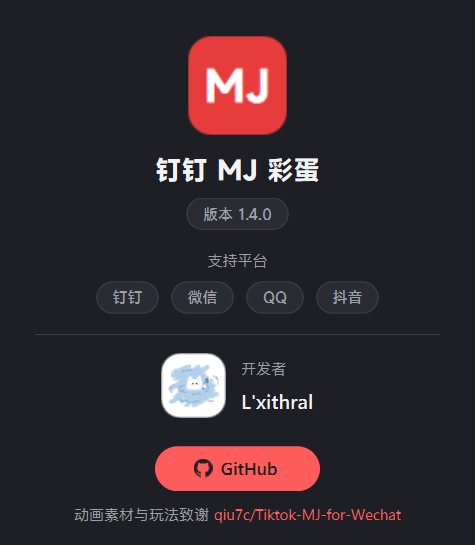
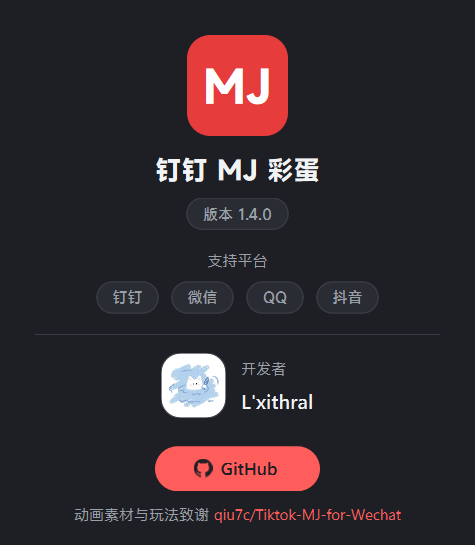
关于窗口位图高清化: MJ 图标与头像按屏幕 DPR 渲染

diff --git a/app/desktop/mjegg/about.py b/app/desktop/mjegg/about.py
@@ -7,11 +7,12 @@
 import os
 
 from PyQt6.QtCore import Qt, QRectF, QUrl
-from PyQt6.QtGui import (QBrush, QColor, QDesktopServices, QFont, QIcon, QPainter,
-                         QPainterPath, QPen, QPixmap)
+from PyQt6.QtGui import (QBrush, QColor, QDesktopServices, QFont, QGuiApplication, QIcon,
+                         QPainter, QPainterPath, QPen, QPixmap)
 from PyQt6.QtWidgets import QDialog, QHBoxLayout, QLabel, QPushButton, QVBoxLayout
 
 from .paths import resource_path
+from .overlay import draw_app_icon_pixmap
 from . import theme
 
 APP_NAME = "钉钉 MJ 彩蛋"
@@ -46,36 +47,44 @@ def github_icon_pixmap(size: int, color: str) -> QPixmap:
 
 
 def avatar_pixmap(source_path: str, size: int, border_color: str,
-                  fallback_letter: str, fallback_bg: str, fallback_fg: str) -> QPixmap:
-    """圆角方形头像(抗锯齿裁剪 + 1px 描边). 图片缺失时退回中性色首字母占位."""
-    pm = QPixmap(size, size)
+                  fallback_letter: str, fallback_bg: str, fallback_fg: str,
+                  dpr: float = 1.0) -> QPixmap:
+    """圆角方形头像(抗锯齿裁剪 + 描边). dpr>1 按物理像素渲染, 高 DPI 下不发虚.
+
+    图片缺失时退回中性色首字母占位.
+    """
+    physical = int(size * dpr)
+    pm = QPixmap(physical, physical)
     pm.fill(Qt.GlobalColor.transparent)
     p = QPainter(pm)
     p.setRenderHint(QPainter.RenderHint.Antialiasing)
     p.setRenderHint(QPainter.RenderHint.SmoothPixmapTransform)
-    radius = size * 0.30
+    radius = physical * 0.30
     path = QPainterPath()
-    path.addRoundedRect(QRectF(0, 0, size, size), radius, radius)
+    path.addRoundedRect(QRectF(0, 0, physical, physical), radius, radius)
     src = QPixmap(source_path) if os.path.exists(source_path) else QPixmap()
     if not src.isNull():
         side = min(src.width(), src.height())
         cropped = src.copy((src.width() - side) // 2, (src.height() - side) // 2, side, side)
         p.setClipPath(path)
-        p.drawPixmap(0, 0, size, size, cropped)
+        p.drawPixmap(0, 0, physical, physical, cropped)
     else:
         p.fillPath(path, QBrush(QColor(fallback_bg)))
         font = QFont()
         font.setBold(True)
-        font.setPixelSize(int(size * 0.48))
+        font.setPixelSize(int(physical * 0.48))
         p.setFont(font)
         p.setPen(QColor(fallback_fg))
-        p.drawText(QRectF(0, 0, size, size), Qt.AlignmentFlag.AlignCenter, fallback_letter)
+        p.drawText(QRectF(0, 0, physical, physical), Qt.AlignmentFlag.AlignCenter,
+                   fallback_letter)
     p.setClipping(False)
     pen = QPen(QColor(border_color))
-    pen.setWidthF(1.0)
+    pen.setWidthF(max(1.0, dpr))
     p.setPen(pen)
     p.drawPath(path)
     p.end()
+    if dpr != 1.0:
+        pm.setDevicePixelRatio(dpr)
     return pm
 
 
@@ -169,10 +178,21 @@ class AboutDialog(QDialog):
 
         self.apply_theme()
 
+    def _screen_dpr(self) -> float:
+        """当前所在屏幕的 devicePixelRatio(未显示时退回主屏), 位图按它渲染才不虚."""
+        screen = self.screen() or QGuiApplication.primaryScreen()
+        return screen.devicePixelRatio() if screen else 1.0
+
+    def showEvent(self, ev):
+        # 弹出时按实际所在屏幕重渲染位图(多屏 DPR 不同/首帧前 DPR 未定)
+        super().showEvent(ev)
+        self.apply_theme()
+
     def apply_theme(self):
         c = theme.palette_dict()
+        dpr = self._screen_dpr()
         self.setStyleSheet(f"QDialog {{ background: {c['window_bg']}; }}")
-        self._icon_label.setPixmap(self._icon.pixmap(80, 80))
+        self._icon_label.setPixmap(draw_app_icon_pixmap(84, dpr))
 
         chip_qss = (
             f"QLabel {{ background: {c['card_bg']}; color: {c['subtext']};"
@@ -200,7 +220,7 @@ class AboutDialog(QDialog):
         self._line.setStyleSheet(f"background: {c['line']}; border: none;")
         self._avatar_label.setPixmap(avatar_pixmap(
             self._avatar_path, 52, c["line"],
-            DEVELOPER[0].upper(), c["card_bg"], c["subtext"]))
+            DEVELOPER[0].upper(), c["card_bg"], c["subtext"], dpr))
         self._gh_button.setIcon(QIcon(github_icon_pixmap(18, c["window_bg"])))
         self._gh_button.setStyleSheet(
             f"QPushButton {{ background: {c['accent']}; color: {c['window_bg']};"

diff --git a/app/desktop/mjegg/overlay.py b/app/desktop/mjegg/overlay.py
@@ -156,21 +156,31 @@ def spawn_egg_window(height_ratio=0.85, volume=1.0) -> EggWindow:
     return EggWindow(height_ratio, volume)
 
 
-def draw_tray_icon_pixmap(size=64):
-    """生成一个红底白字 MJ 图标(无需外部 .ico)."""
-    from PyQt6.QtGui import QPixmap, QIcon
-    pm = QPixmap(size, size)
+def draw_app_icon_pixmap(size=64, dpr=1):
+    """红底白字 MJ 应用图标 QPixmap. dpr>1 时按物理像素渲染, 高 DPI 下不发虚."""
+    from PyQt6.QtGui import QPixmap
+    physical = int(size * dpr)
+    pm = QPixmap(physical, physical)
     pm.fill(Qt.GlobalColor.transparent)
     p = QPainter(pm)
     p.setRenderHint(QPainter.RenderHint.Antialiasing)
     p.setBrush(QColor(230, 60, 60))
     p.setPen(Qt.PenStyle.NoPen)
-    p.drawRoundedRect(2, 2, size - 4, size - 4, 14, 14)
+    p.drawRoundedRect(2, 2, physical - 4, physical - 4,
+                      physical * 0.22, physical * 0.22)
     p.setPen(QColor(255, 255, 255))
     f = QFont()
     f.setBold(True)
-    f.setPixelSize(int(size * 0.42))
+    f.setPixelSize(int(physical * 0.42))
     p.setFont(f)
     p.drawText(pm.rect(), Qt.AlignmentFlag.AlignCenter, "MJ")
     p.end()
-    return QIcon(pm)
+    if dpr != 1:
+        pm.setDevicePixelRatio(dpr)
+    return pm
+
+
+def draw_tray_icon_pixmap(size=64):
+    """生成一个红底白字 MJ 图标(无需外部 .ico)."""
+    from PyQt6.QtGui import QIcon
+    return QIcon(draw_app_icon_pixmap(size))
